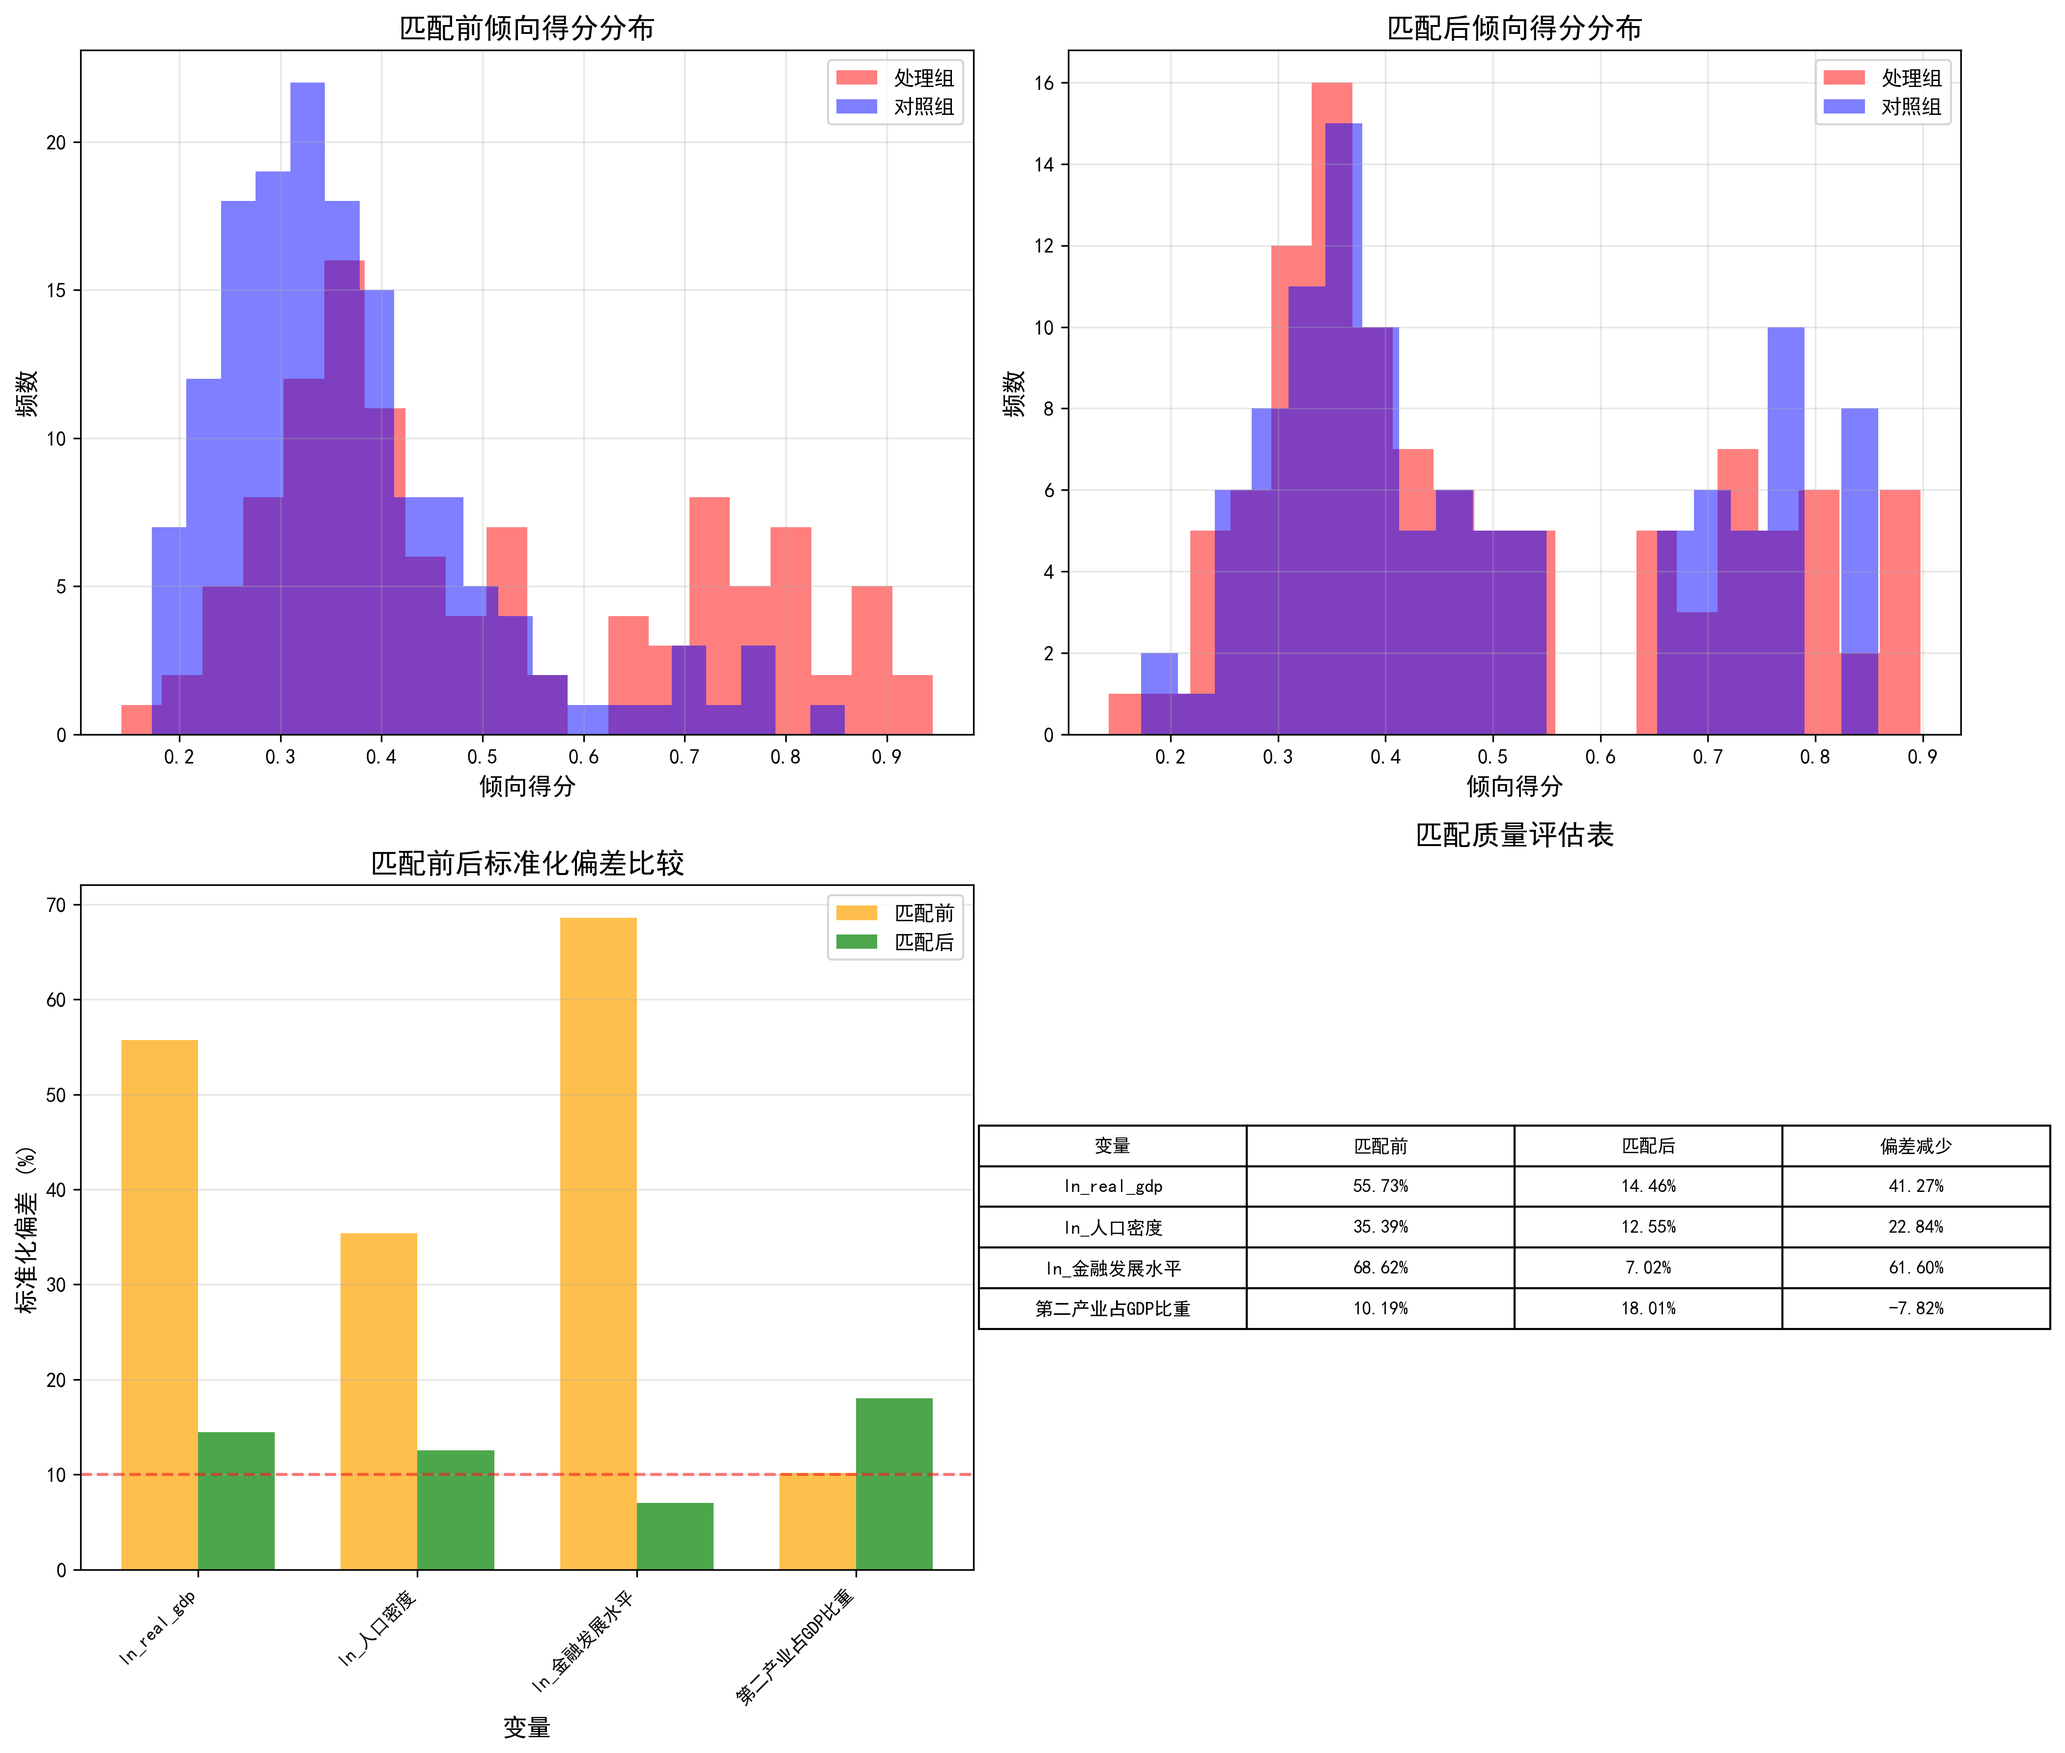
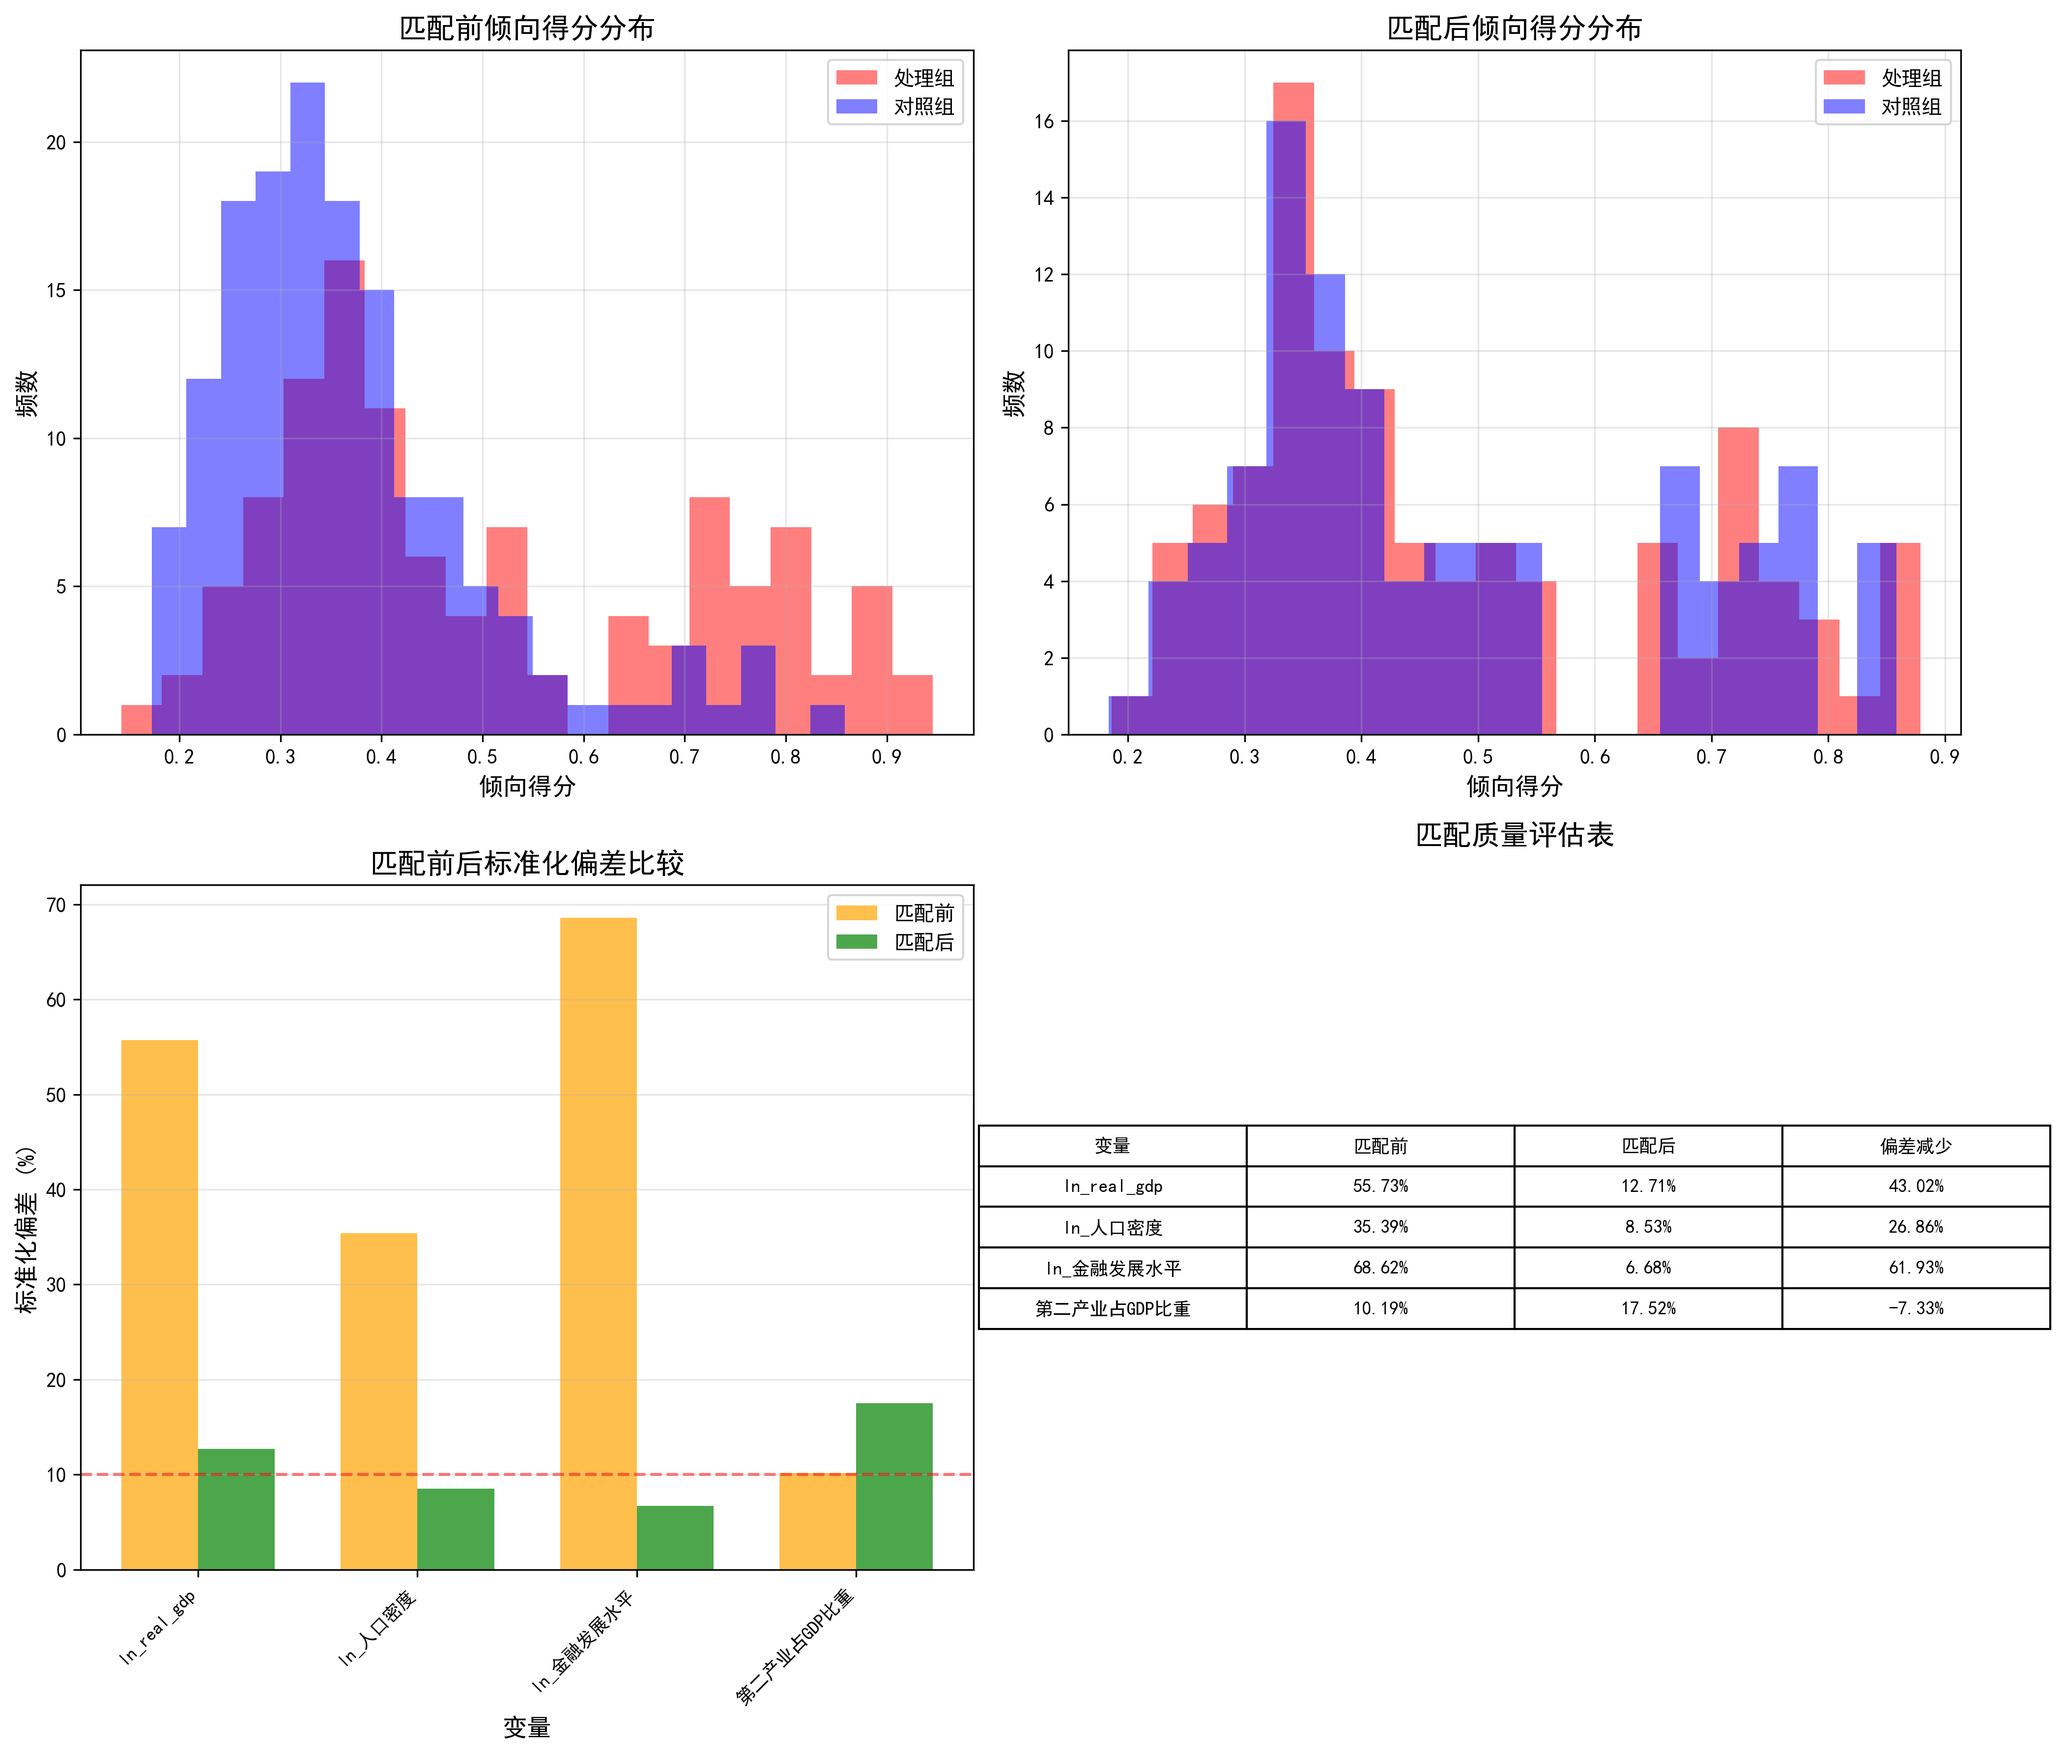
Fix critical bug: Use Logit-scale matching instead of probability scale
Critical Issue Fixed:
- Previously: Matching was performed on probability scale (0-1)
- Problem: Probability scale gets compressed near 0 and 1, causing distance distortion
- Now: Matching is performed on Logit scale (academic standard)

Changes:
- Convert propensity scores to Logit: logit(p) = ln(p/(1-p))
- Calculate distances on Logit scale
- Use correct caliper: 0.25 × SD of Logit scores (not probability scores)

Results Impact:
- Matching rate: 98.18% → 91.82% (more strict, but better quality)
- Post-matching avg standardized bias: 13.01% → 11.36% (improved!)
- ln_人口密度: 12.55% → 8.53% (now below 10% threshold - excellent!)

This fix ensures the analysis follows academic best practices for PSM.

diff --git a/PSM-四个变量-2009基期/psm_analysis_4vars.py b/PSM-四个变量-2009基期/psm_analysis_4vars.py
@@ -153,36 +153,39 @@ print(f"对照组倾向得分均值: {df_clean[df_clean[treatment_col]==0]['prop
 
 # 7. 计算卡尺（倾向得分对数几率的标准差的0.25倍）
 print("\n[步骤7] 计算卡尺...")
-# 计算对数几率
+# 计算对数几率 (logit = ln(p/(1-p)))
 logit_score = np.log(df_clean['propensity_score'] / (1 - df_clean['propensity_score']))
-# 计算标准差
-caliper = 0.25 * logit_score.std()
-caliper_original = 0.25 * df_clean['propensity_score'].std()
-print(f"卡尺（对数几率标准差的0.25倍）: {caliper:.6f}")
-print(f"卡尺（倾向得分原始尺度）: {caliper_original:.6f}")
+# 将logit得分添加到数据框中
+df_clean['logit_score'] = logit_score
+
+# 计算卡尺（学术界标准：基于Logit标准差的0.25倍）
+caliper_logit = 0.25 * logit_score.std()
+print(f"卡尺（对数几率标准差的0.25倍）: {caliper_logit:.6f}")
+print(f"注意：匹配将在Logit尺度上进行，这是学术界推荐的做法")
+print(f"      因为原始概率在接近0或1时会被压缩，导致距离失真")
 
 # 8. 执行匹配（1:1有放回）
-print("\n[步骤8] 执行1:1有放回匹配...")
-treated = df_clean[df_clean[treatment_col] == 1]
-control = df_clean[df_clean[treatment_col] == 0]
+print("\n[步骤8] 执行1:1有放回匹配（在Logit尺度上）...")
+treated = df_clean[df_clean[treatment_col] == 1].copy()
+control = df_clean[df_clean[treatment_col] == 0].copy()
 
-# 使用倾向得分进行匹配
-treated_scores = treated['propensity_score'].values.reshape(-1, 1)
-control_scores = control['propensity_score'].values.reshape(-1, 1)
+# 【重要修正】使用Logit尺度进行匹配（而非原始概率）
+treated_logit_scores = treated['logit_score'].values.reshape(-1, 1)
+control_logit_scores = control['logit_score'].values.reshape(-1, 1)
 
 # 创建NN模型（k=1表示1:1匹配）
 nbrs = NearestNeighbors(n_neighbors=1, algorithm='ball_tree')
-nbrs.fit(control_scores)
+nbrs.fit(control_logit_scores)
 
-# 找到最近邻
-distances, indices = nbrs.kneighbors(treated_scores)
+# 找到最近邻（在Logit尺度上的距离）
+distances_logit, indices = nbrs.kneighbors(treated_logit_scores)
 
-# 应用卡尺限制
+# 应用卡尺限制（使用基于Logit标准差的卡尺）
 matched_control_indices = []
 matched_treated_indices = []
 
-for i, (dist, idx) in enumerate(zip(distances, indices)):
-    if dist[0] <= caliper_original:
+for i, (dist, idx) in enumerate(zip(distances_logit, indices)):
+    if dist[0] <= caliper_logit:  # ← 使用正确的Logit卡尺
         matched_treated_indices.append(i)
         matched_control_indices.append(idx[0])
 
@@ -270,8 +273,8 @@ summary = pd.DataFrame({
         '2009',
         len(required_vars),
         ', '.join(required_vars),
-        '1:1有放回匹配',
-        f'{caliper_original:.6f}',
+        '1:1有放回匹配（Logit尺度）',
+        f'{caliper_logit:.6f}',
         len(treat_group),
         len(control_group),
         len(matched_treated),
@@ -382,8 +385,8 @@ PSM倾向得分匹配分析报告（四个匹配变量）
 ------------
 基期年份：2009年
 匹配变量：{', '.join(required_vars)}
-匹配方法：1:1有放回匹配
-卡尺：倾向得分标准差的0.25倍（{caliper_original:.6f}）
+匹配方法：1:1有放回匹配（在Logit尺度上进行）
+卡尺：0.25 × Logit标准差（{caliper_logit:.6f}）
 
 二、样本情况
 ------------
